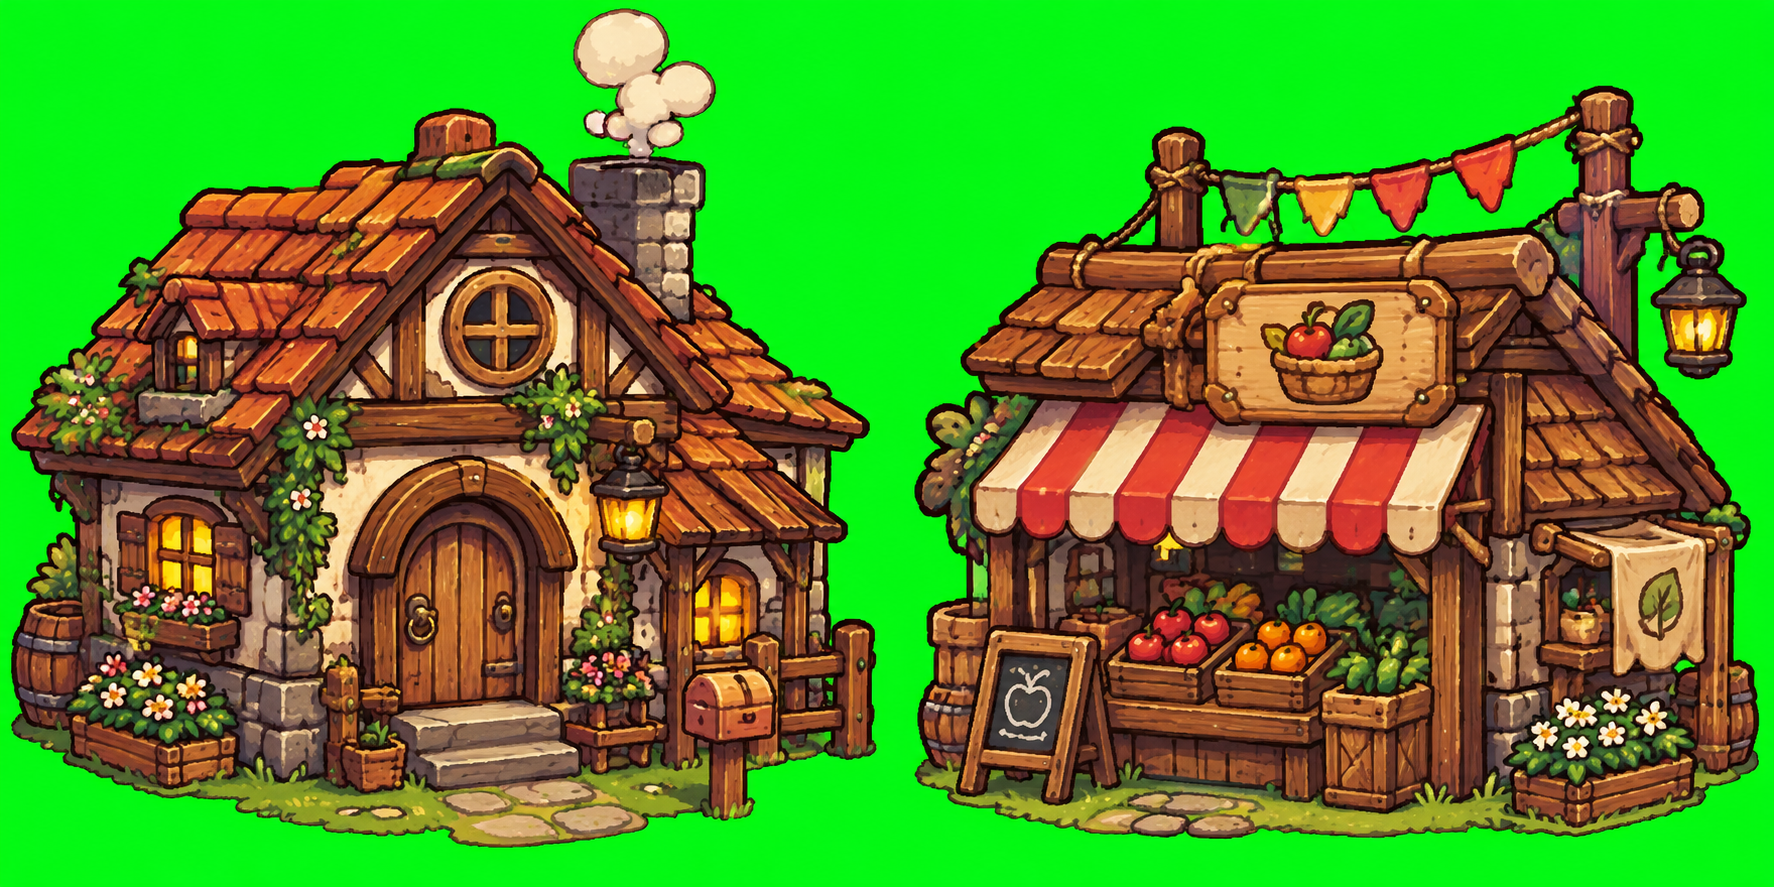
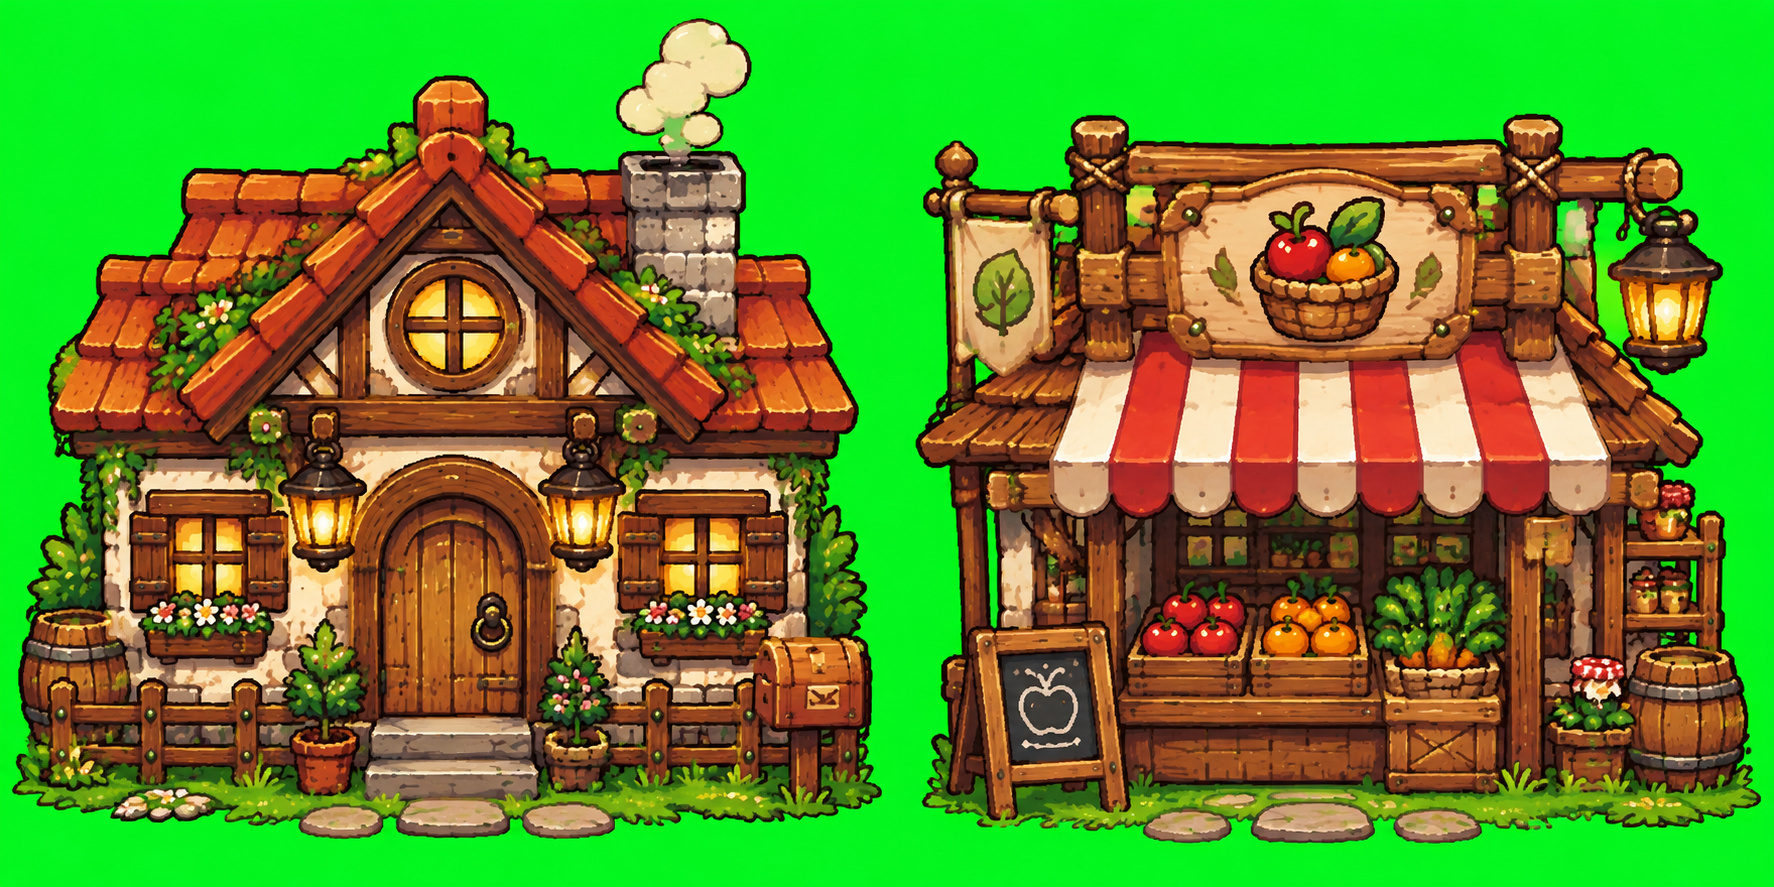
Casa e barraca de frente; plaquinha do título com borda certa
- Arte nova de frente para a casa e a barraca do Fungo (assets/source/house_shop.png), sem as pedrinhas
  do caminho embaixo
- Plaquinha do título das janelas: a parte de cima agora espelha a de baixo (com a borda de madeira),
  sem o bege passando da borda

Claude-Session: https://claude.ai/code/session_01K8smMkd41S9KsmfWVPtWCG

diff --git a/tools/import_buildings.py b/tools/import_buildings.py
@@ -1,7 +1,8 @@
 #!/usr/bin/env python3
 """
-Casa do jogador e barraca do Fungo (assets/source/house_shop.png, fundo verde: casa à esquerda, barraca à direita).
-Cada uma é reduzida para caber no espaço da arte anterior (128x128, base embaixo).
+Casa do jogador e barraca do Fungo (assets/source/house_shop.png, fundo verde, vistas de frente:
+casa à esquerda, barraca à direita). As pedrinhas soltas embaixo (caminho) saem; o resto é reduzido
+para caber no espaço da arte anterior (128x128, base embaixo).
 Uso: python3 tools/import_buildings.py
 """
 import os
@@ -10,73 +11,53 @@ import sys
 sys.path.insert(0, os.path.dirname(os.path.abspath(__file__)))
 from PIL import Image  # noqa: E402
 from import_hud import key_flood  # noqa: E402
+from import_animals import components  # noqa: E402
 
 ROOT = os.path.dirname(os.path.dirname(os.path.abspath(__file__)))
 SRC = os.path.join(ROOT, "assets", "source", "house_shop.png")
 SPR = os.path.join(ROOT, "assets", "sprites")
 SIZE = 128
 
-def remove_ground(im, box):
-    """Tira o chão (grama e pedras) de um trecho, mantendo a madeira (postes, caixa de correio, floreiras)
-    e o contorno escuro colado nela."""
-    import colorsys
-    px = im.load()
-    x0, y0, x1, y1 = box
-    wood = set()
-    for y in range(y0, y1):
-        for x in range(x0, x1):
-            r, g, b, a = px[x, y]
-            if not a:
-                continue
-            h, sat, v = colorsys.rgb_to_hsv(r / 255, g / 255, b / 255)
-            if r > g + 25 and sat > 0.45 and 0.25 < v < 0.8 and (h < 0.11 or h > 0.95):
-                wood.add((x, y))
-    near = set()
-    for x, y in wood:
-        for dy in range(-3, 4):
-            for dx in range(-3, 4):
-                near.add((x + dx, y + dy))
-    for y in range(y0, y1):
-        for x in range(x0, x1):
-            r, g, b, a = px[x, y]
-            if not a or (x, y) in wood:
-                continue
-            if (r + g + b) / 3 < 60 and (x, y) in near:
-                continue                    # contorno da madeira
-            px[x, y] = (0, 0, 0, 0)
-    # sobras soltas (contornos das pedras): pedaços pequenos que não encostam no resto da casa
-    from import_animals import components
-    region = im.crop(box)
-    for c in components(region, 1):
-        touches_top = c["bbox"][1] == 0
-        if c["area"] < 400 and not touches_top:
+
+def drop_loose_stones(p):
+    """Tira os pedaços pequenos soltos na parte de baixo (pedrinhas do caminho, florzinhas no chão).
+    A fumaça da chaminé (solta, mas em cima) fica."""
+    comps = components(p, 1)
+    big = max(c["area"] for c in comps)
+    px = p.load()
+    for c in comps:
+        cy = (c["bbox"][1] + c["bbox"][3]) / 2
+        if c["area"] < big * 0.05 and cy > p.height * 0.6:
             for x, y in c["pts"]:
-                px[x + x0, y + y0] = (0, 0, 0, 0)
+                px[x, y] = (0, 0, 0, 0)
+    return p
 
 
 if __name__ == "__main__":
     im = key_flood(Image.open(SRC).convert("RGBA"))
     px = im.load()
-    for y in range(im.height):          # verde de fundo preso (entre as bandeirinhas e o telhado)
+    for y in range(im.height):          # verde de fundo preso (atrás das placas, dentro da fumaça)
         for x in range(im.width):
             r, g, b, a = px[x, y]
             if a and g > 190 and r < 90 and b < 90:
                 px[x, y] = (0, 0, 0, 0)
-    remove_ground(im, (0, 776, im.width // 2 + 10, im.height))   # casa: sem o chão de grama e pedrinhas na porta
-    for y in range(778, im.height):                               # embaixo da escada (até a caixa de correio)
-        for x in range(400, 702):
-            im.putpixel((x, y), (0, 0, 0, 0))
-    half = im.width // 2 + 20
-    for name, box in (("house", (0, 0, half - 30, im.height)), ("shop", (half - 30, 0, im.width, im.height))):
-        p = im.crop(box)
+    # pedrinhas do caminho embaixo das construções (encostam na grama: corte por faixas)
+    for (x0, y0, x1) in ((0, 807, 887), (290, 799, 630), (100, 793, 235),     # casa
+                         (887, 813, 1774)):                                    # barraca
+        for y in range(y0, im.height):
+            for x in range(x0, x1):
+                px[x, y] = (0, 0, 0, 0)
+    mid = im.width // 2
+    for name, box in (("house", (0, 0, mid, im.height)), ("shop", (mid, 0, im.width, im.height))):
+        p = drop_loose_stones(im.crop(box))
         p = p.crop(p.getbbox())
         s = min((SIZE - 4) / p.width, (SIZE - 4) / p.height)
         small = p.resize((round(p.width * s), round(p.height * s)), Image.LANCZOS)
-        px = small.load()
+        spx = small.load()
         for y in range(small.height):
             for x in range(small.width):
-                r, g, b, a = px[x, y]
-                px[x, y] = (r, g, b, 255) if a >= 110 else (0, 0, 0, 0)
+                r, g, b, a = spx[x, y]
+                spx[x, y] = (r, g, b, 255) if a >= 110 else (0, 0, 0, 0)
         out = Image.new("RGBA", (SIZE, SIZE), (0, 0, 0, 0))
         out.alpha_composite(small, ((SIZE - small.width) // 2, SIZE - 4 - small.height))
         out.save(os.path.join(SPR, name + ".png"))

diff --git a/tools/import_windows.py b/tools/import_windows.py
@@ -55,13 +55,19 @@ if __name__ == "__main__":
     win = full.crop(OPT)
 
     # peças antes de limpar a janela
-    title = win.crop((100, 25, 266, 96))
+    title = win.crop((100, 25, 270, 98))
     erase_h(title, (14, 10, 152, 62))                         # tira "Opções"
     # o lado esquerdo da placa fica atrás da engrenagem: usa o direito espelhado
     half = title.crop((title.width // 2, 0, title.width, title.height))
     title = Image.new("RGBA", (half.width * 2, half.height), (0, 0, 0, 0))
     title.paste(half.transpose(Image.FLIP_LEFT_RIGHT), (0, 0))
     title.paste(half, (half.width, 0))
+    # em cima a placa se apoia na viga (sem borda própria): espelha a metade de baixo, que tem a borda
+    cy = 37
+    bottom = title.crop((0, cy, title.width, title.height))
+    title = Image.new("RGBA", (title.width, bottom.height * 2), (0, 0, 0, 0))
+    title.paste(bottom.transpose(Image.FLIP_TOP_BOTTOM), (0, 0))
+    title.paste(bottom, (0, bottom.height))
     close = win.crop((343, 24, 408, 98))
     plank = win.crop((52, 538, 382, 600))                     # "Sair para o menu"
     erase_h(plank, (14, 10, 316, 52))
@@ -90,7 +96,7 @@ if __name__ == "__main__":
     # a placa do título: contorno claro demais para o "cut_outside"; recorta com cantos arredondados
     from PIL import ImageDraw
     m = Image.new("L", title.size, 0)
-    ImageDraw.Draw(m).rounded_rectangle((1, 3, title.width - 2, title.height - 4), radius=14, fill=255)
+    ImageDraw.Draw(m).rounded_rectangle((0, 0, title.width - 1, title.height - 1), radius=16, fill=255)
     clear = Image.new("RGBA", title.size, (0, 0, 0, 0))
     clear.paste(title, (0, 0), m)
     title = clear
